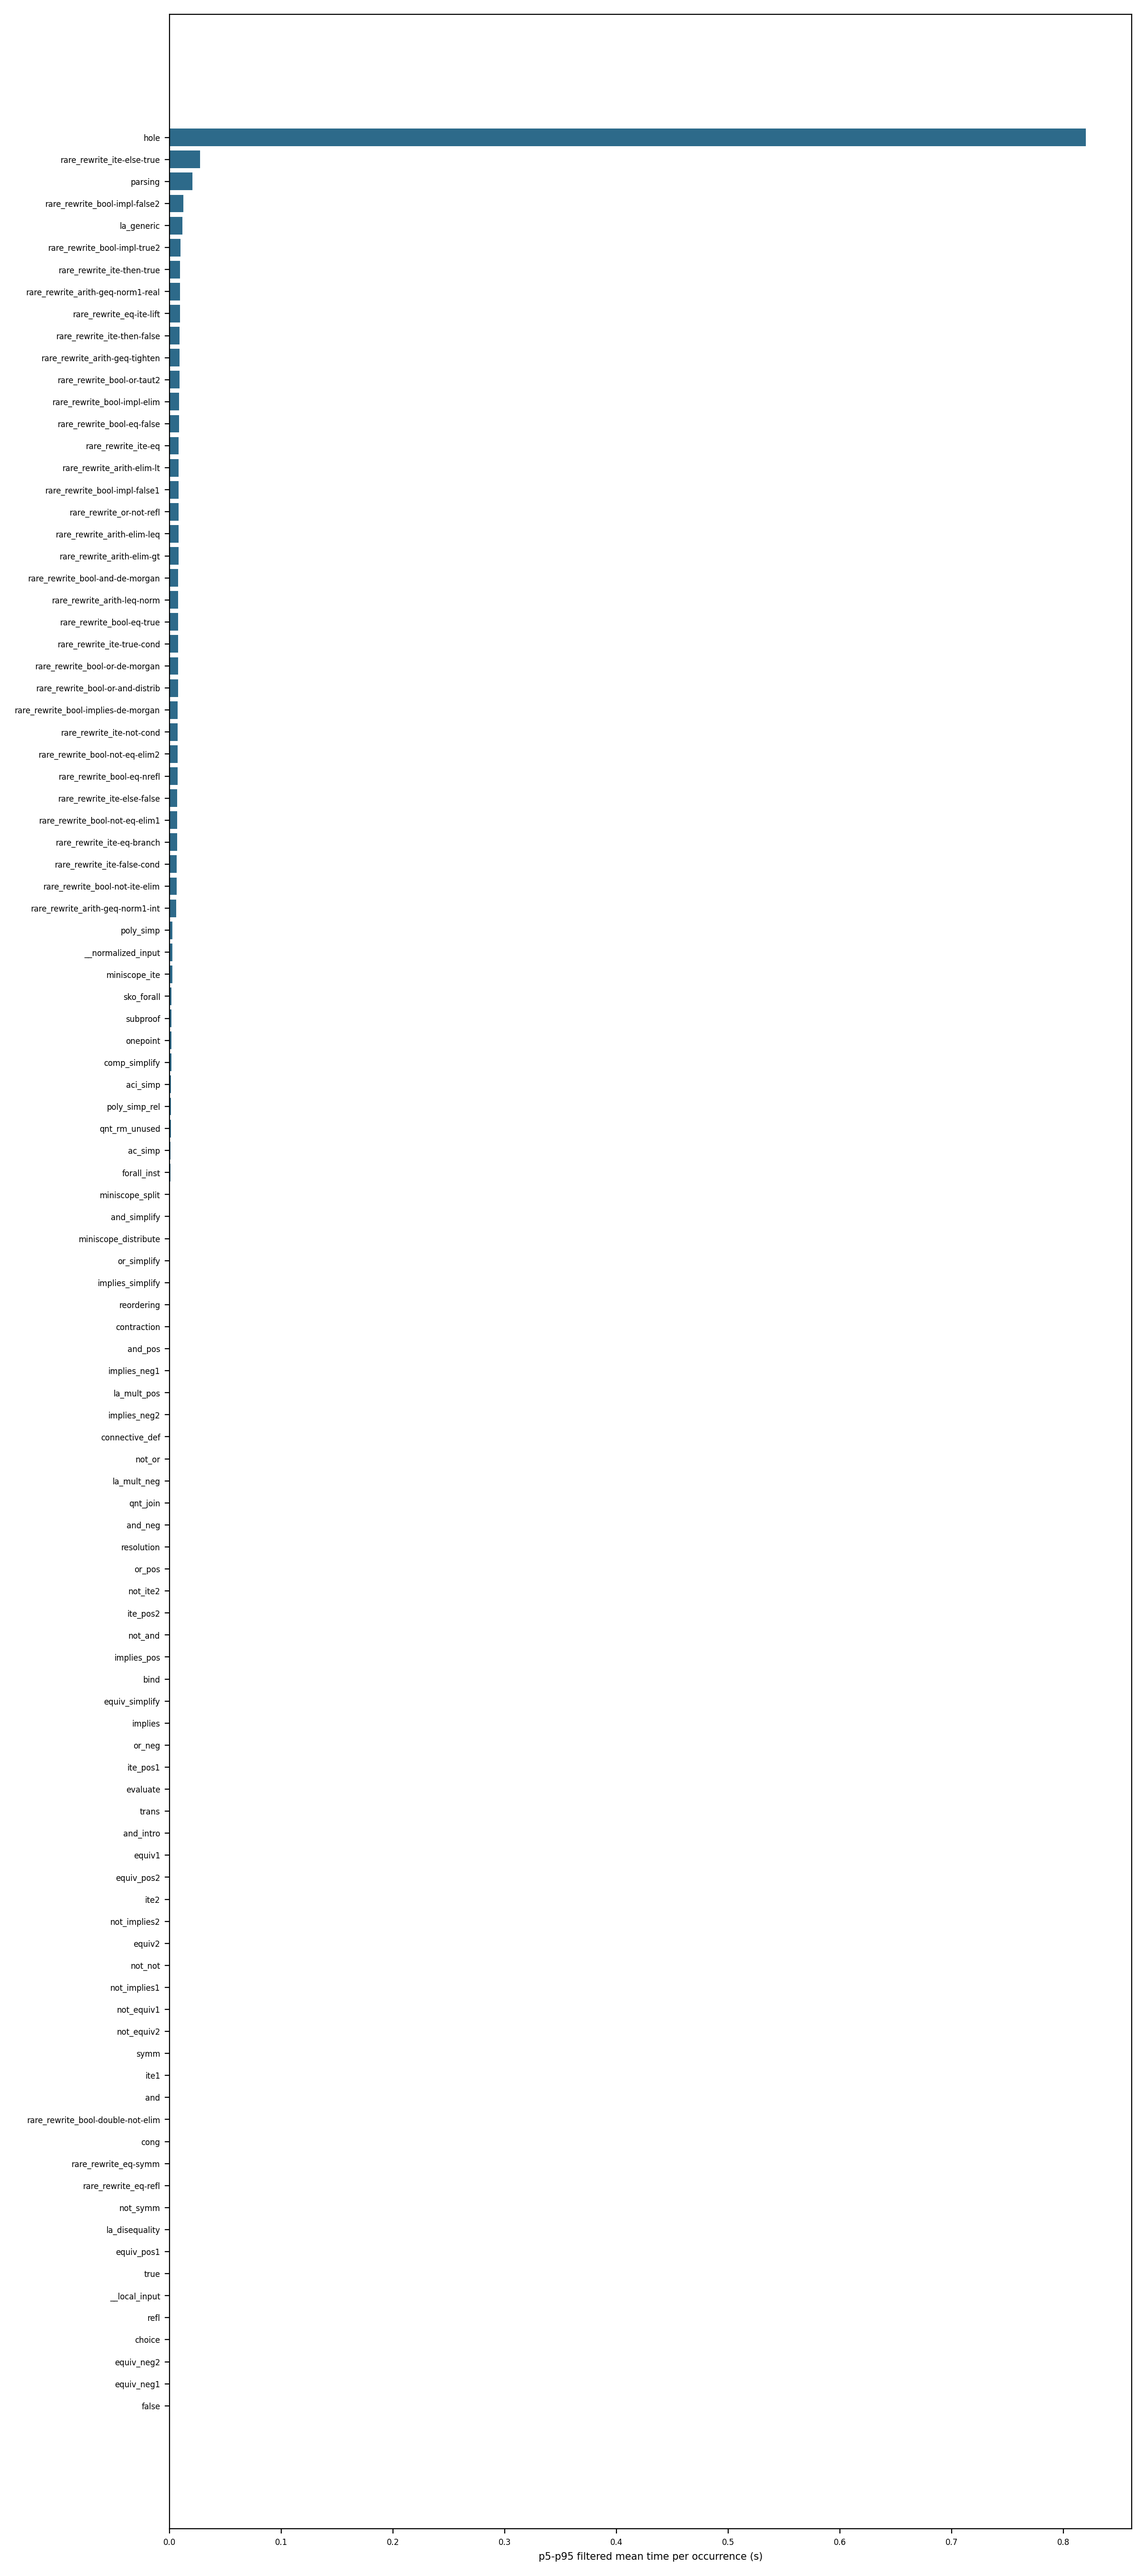
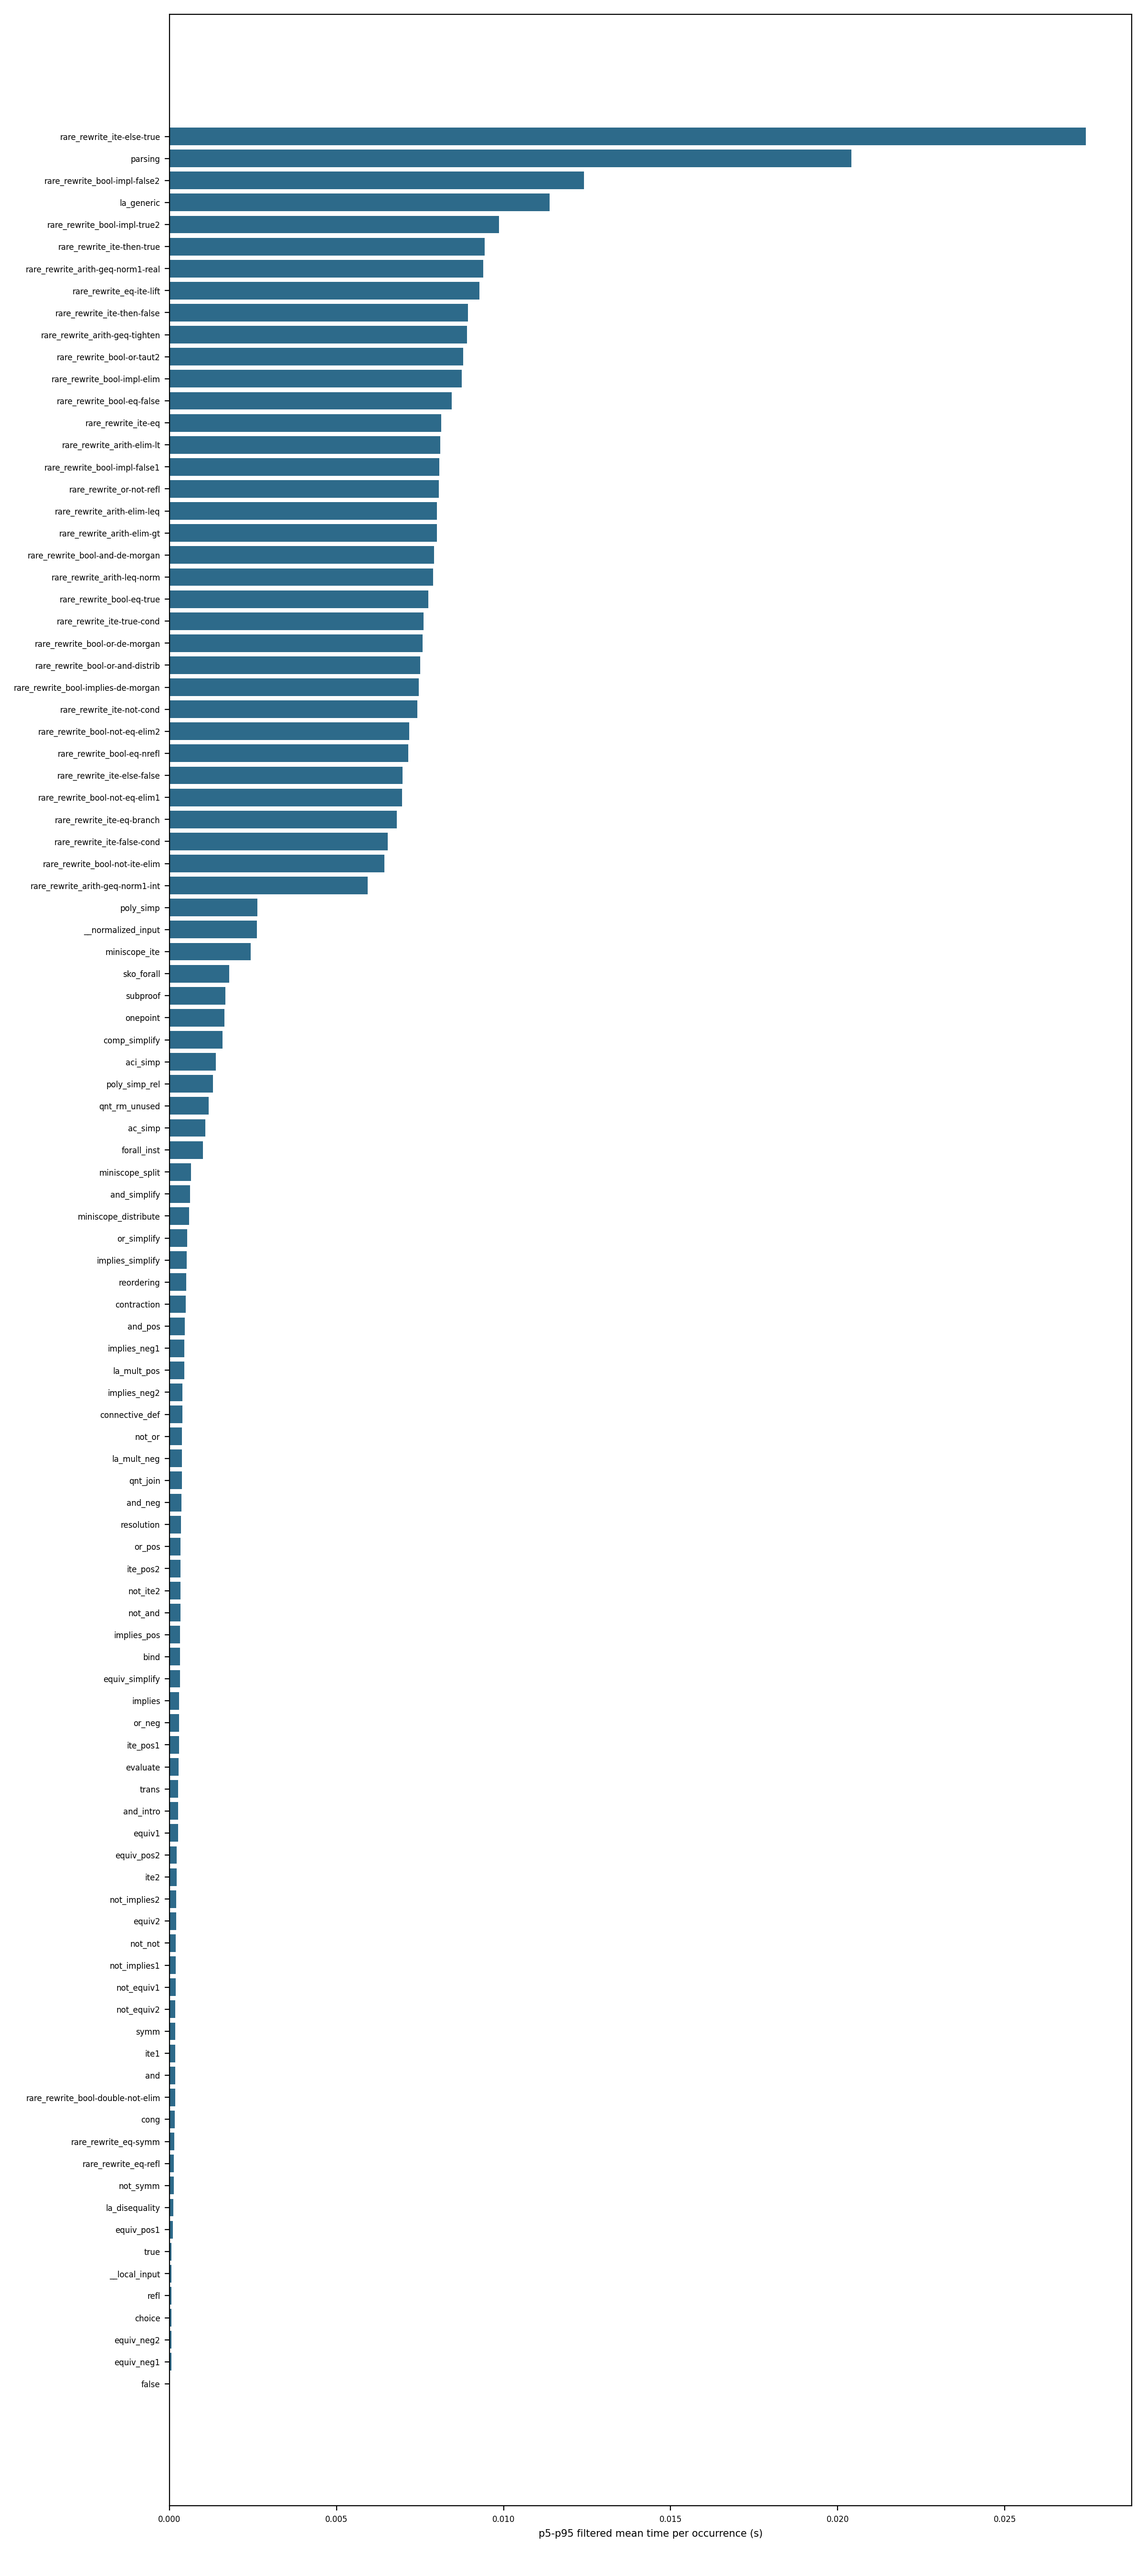
Add flags missing

Changed region(s): [[0.0312, 0.0312, 0.75, 0.9375]]

diff --git a/timing/scripts/script.py b/timing/scripts/script.py
@@ -31,8 +31,7 @@ from txt_to_by_rule_csv import aggregate_samples, discover_input_files, merge_sa
 
 
 DPI = 200
-DEFAULT_MAX_RULES = 25
-P05_P95_FILTER_LIMITS = (0.05, 0.95)
+DEFAULT_FILTER_LIMITS = (0.05, 0.95)
 
 
 def parse_args() -> argparse.Namespace:
@@ -47,8 +46,27 @@ def parse_args() -> argparse.Namespace:
     parser.add_argument(
         "--max-rules",
         type=int,
-        default=DEFAULT_MAX_RULES,
-        help="Maximum number of rules to include across each plot family.",
+        default=None,
+        help="Maximum number of rules to include across each plot family. Defaults to all rules.",
+    )
+    parser.add_argument(
+        "--min",
+        dest="min_quantile",
+        type=float,
+        default=DEFAULT_FILTER_LIMITS[0],
+        help="Lower percentile filter bound in [0, 1]. Defaults to 0.05.",
+    )
+    parser.add_argument(
+        "--max",
+        dest="max_quantile",
+        type=float,
+        default=DEFAULT_FILTER_LIMITS[1],
+        help="Upper percentile filter bound in [0, 1]. Defaults to 0.95.",
+    )
+    parser.add_argument(
+        "--exclude",
+        default="",
+        help="Comma-separated rule names to exclude from plots.",
     )
     return parser.parse_args()
 
@@ -83,8 +101,37 @@ def read_by_rule_csv(filename: Path) -> pandas.DataFrame:
     return df
 
 
-def select_ranked_rules(input_csv: Path, metric: str, max_rules: int) -> pandas.DataFrame:
+def parse_excluded_rules(exclude_arg: str) -> set[str]:
+    return {rule.strip() for rule in exclude_arg.split(",") if rule.strip()}
+
+
+def filter_label(value: float) -> str:
+    percentage = value * 100.0
+    if percentage.is_integer():
+        return f"p{int(percentage)}"
+    return f"p{str(round(percentage, 3)).rstrip('0').rstrip('.')}"
+
+
+def filter_token(value: float) -> str:
+    percentage = value * 100.0
+    if percentage.is_integer():
+        return f"p{int(percentage):02d}"
+    return f"p{str(round(percentage, 3)).rstrip('0').rstrip('.').replace('.', '_')}"
+
+
+def select_ranked_rules(
+    input_csv: Path,
+    metric: str,
+    max_rules: int | None,
+    excluded_rules: set[str],
+) -> pandas.DataFrame:
     by_rule = read_by_rule_csv(input_csv)
+    if excluded_rules:
+        by_rule = by_rule.loc[~by_rule["rule"].isin(excluded_rules)].copy()
+    if by_rule.empty:
+        raise SystemExit("error: no rules remain after applying plotting filters")
+    if max_rules is None:
+        return by_rule.sort_values(by=metric, ascending=False).reset_index(drop=True)
     return by_rule.nlargest(max_rules, metric).reset_index(drop=True)
 
 
@@ -96,15 +143,21 @@ def plot_style(rule_count: int) -> tuple[float, float, float]:
     return figure_height, label_fontsize, axis_fontsize
 
 
-def build_total_bar_plot(input_csv: Path, output_path: Path, max_rules: int) -> Path:
+def build_total_bar_plot(
+    input_csv: Path,
+    output_path: Path,
+    max_rules: int | None,
+    excluded_rules: set[str],
+    filter_bounds_label: str,
+) -> Path:
     plt = import_plotting()
-    by_rule = select_ranked_rules(input_csv, "total", max_rules)
+    by_rule = select_ranked_rules(input_csv, "total", max_rules, excluded_rules)
     by_rule = by_rule.sort_values(by="total")
     figure_height, label_fontsize, axis_fontsize = plot_style(len(by_rule))
 
     fig, ax = plt.subplots(figsize=(12, figure_height))
     ax.barh(by_rule["rule"], by_rule["total"], color="#555555")
-    ax.set_xlabel("p5-p95 filtered total time (s)", fontsize=axis_fontsize)
+    ax.set_xlabel(f"{filter_bounds_label} filtered total time (s)", fontsize=axis_fontsize)
     ax.tick_params(axis="x", labelsize=max(6.0, label_fontsize))
     ax.tick_params(axis="y", labelsize=label_fontsize)
     fig.tight_layout()
@@ -113,15 +166,24 @@ def build_total_bar_plot(input_csv: Path, output_path: Path, max_rules: int) -> 
     return output_path
 
 
-def build_mean_bar_plot(input_csv: Path, output_path: Path, max_rules: int) -> Path:
+def build_mean_bar_plot(
+    input_csv: Path,
+    output_path: Path,
+    max_rules: int | None,
+    excluded_rules: set[str],
+    filter_bounds_label: str,
+) -> Path:
     plt = import_plotting()
-    by_rule = select_ranked_rules(input_csv, "mean", max_rules)
+    by_rule = select_ranked_rules(input_csv, "mean", max_rules, excluded_rules)
     by_rule = by_rule.sort_values(by="mean")
     figure_height, label_fontsize, axis_fontsize = plot_style(len(by_rule))
 
     fig, ax = plt.subplots(figsize=(12, figure_height))
     ax.barh(by_rule["rule"], by_rule["mean"], color="#2d6a8a")
-    ax.set_xlabel("p5-p95 filtered mean time per occurrence (s)", fontsize=axis_fontsize)
+    ax.set_xlabel(
+        f"{filter_bounds_label} filtered mean time per occurrence (s)",
+        fontsize=axis_fontsize,
+    )
     ax.tick_params(axis="x", labelsize=max(6.0, label_fontsize))
     ax.tick_params(axis="y", labelsize=label_fontsize)
     fig.tight_layout()
@@ -130,9 +192,15 @@ def build_mean_bar_plot(input_csv: Path, output_path: Path, max_rules: int) -> P
     return output_path
 
 
-def build_box_plot(input_csv: Path, output_path: Path, max_rules: int) -> Path:
+def build_box_plot(
+    input_csv: Path,
+    output_path: Path,
+    max_rules: int | None,
+    excluded_rules: set[str],
+    filter_bounds_label: str,
+) -> Path:
     plt = import_plotting()
-    by_rule = select_ranked_rules(input_csv, "total", max_rules)
+    by_rule = select_ranked_rules(input_csv, "total", max_rules, excluded_rules)
     by_rule = by_rule.sort_values(by="total")
     figure_height, label_fontsize, axis_fontsize = plot_style(len(by_rule))
 
@@ -149,7 +217,7 @@ def build_box_plot(input_csv: Path, output_path: Path, max_rules: int) -> Path:
         for _, row in by_rule.iterrows()
     ]
     ax.bxp(boxplot, shownotches=False, showmeans=False, showfliers=False, vert=False)
-    ax.set_xlabel("p5-p95 filtered time (s)", fontsize=axis_fontsize)
+    ax.set_xlabel(f"{filter_bounds_label} filtered time (s)", fontsize=axis_fontsize)
     ax.tick_params(axis="x", labelsize=max(6.0, label_fontsize))
     ax.tick_params(axis="y", labelsize=label_fontsize)
     fig.tight_layout()
@@ -158,9 +226,14 @@ def build_box_plot(input_csv: Path, output_path: Path, max_rules: int) -> Path:
     return output_path
 
 
-def build_scatter_plot(input_csv: Path, output_path: Path, max_rules: int) -> Path:
+def build_scatter_plot(
+    input_csv: Path,
+    output_path: Path,
+    max_rules: int | None,
+    excluded_rules: set[str],
+) -> Path:
     plt = import_plotting()
-    by_rule = select_ranked_rules(input_csv, "mean", max_rules)
+    by_rule = select_ranked_rules(input_csv, "mean", max_rules, excluded_rules)
     figure_height, label_fontsize, axis_fontsize = plot_style(len(by_rule))
     annotation_fontsize = max(3.5, label_fontsize - 1.0)
 
@@ -191,7 +264,21 @@ def build_scatter_plot(input_csv: Path, output_path: Path, max_rules: int) -> Pa
     return output_path
 
 
-def run_pipeline(input_path: Path, output_dir: Path, max_rules: int) -> int:
+def run_pipeline(
+    input_path: Path,
+    output_dir: Path,
+    max_rules: int | None,
+    min_quantile: float,
+    max_quantile: float,
+    excluded_rules: set[str],
+) -> int:
+    if not 0.0 <= min_quantile <= 1.0:
+        raise SystemExit("error: --min must be between 0 and 1")
+    if not 0.0 <= max_quantile <= 1.0:
+        raise SystemExit("error: --max must be between 0 and 1")
+    if min_quantile > max_quantile:
+        raise SystemExit("error: --min must be less than or equal to --max")
+
     output_dir.mkdir(parents=True, exist_ok=True)
     mpl_config_dir = output_dir / ".matplotlib"
     mpl_config_dir.mkdir(parents=True, exist_ok=True)
@@ -203,7 +290,8 @@ def run_pipeline(input_path: Path, output_dir: Path, max_rules: int) -> int:
         raise SystemExit("error: no timing samples found in input")
 
     csv_path = output_dir / "by-rule.csv"
-    p05_p95_csv_path = output_dir / "by-rule-p05-p95.csv"
+    filter_bounds_label = f"{filter_label(min_quantile)}-{filter_label(max_quantile)}"
+    filtered_csv_path = output_dir / f"by-rule-{filter_token(min_quantile)}-{filter_token(max_quantile)}.csv"
     total_bar_path = output_dir / "by-rules-total-barplot.png"
     mean_bar_path = output_dir / "by-rules-mean-barplot.png"
     boxplot_path = output_dir / "by-rules-boxplot.png"
@@ -215,9 +303,9 @@ def run_pipeline(input_path: Path, output_dir: Path, max_rules: int) -> int:
     ]
 
     rows = aggregate_samples(samples)
-    p05_p95_rows = aggregate_samples(samples, trim_limits=P05_P95_FILTER_LIMITS)
+    filtered_rows = aggregate_samples(samples, trim_limits=(min_quantile, max_quantile))
     write_csv(rows, csv_path)
-    write_csv(p05_p95_rows, p05_p95_csv_path)
+    write_csv(filtered_rows, filtered_csv_path)
 
     for stale_dir in stale_paged_outputs:
         if stale_dir.exists():
@@ -225,18 +313,24 @@ def run_pipeline(input_path: Path, output_dir: Path, max_rules: int) -> int:
     stale_csv_paths = [
         output_dir / "by-rule-central95.csv",
         output_dir / "by-rule-upper95.csv",
+        output_dir / "by-rule-p05-p95.csv",
     ]
     for stale_csv_path in stale_csv_paths:
-        if stale_csv_path.exists():
+        if stale_csv_path != filtered_csv_path and stale_csv_path.exists():
             stale_csv_path.unlink()
+    for stale_filtered_csv_path in output_dir.glob("by-rule-p*-p*.csv"):
+        if stale_filtered_csv_path != filtered_csv_path and stale_filtered_csv_path.exists():
+            stale_filtered_csv_path.unlink()
 
-    build_total_bar_plot(p05_p95_csv_path, total_bar_path, max_rules)
-    build_mean_bar_plot(p05_p95_csv_path, mean_bar_path, max_rules)
-    build_box_plot(p05_p95_csv_path, boxplot_path, max_rules)
-    build_scatter_plot(csv_path, scatterplot_path, max_rules)
+    build_total_bar_plot(filtered_csv_path, total_bar_path, max_rules, excluded_rules, filter_bounds_label)
+    build_mean_bar_plot(filtered_csv_path, mean_bar_path, max_rules, excluded_rules, filter_bounds_label)
+    build_box_plot(filtered_csv_path, boxplot_path, max_rules, excluded_rules, filter_bounds_label)
+    build_scatter_plot(csv_path, scatterplot_path, max_rules, excluded_rules)
 
     print(f"wrote {len(rows)} rule rows from {len(used_files)} txt file(s) to {csv_path}")
-    print(f"wrote p5-p95 filtered rule rows to {p05_p95_csv_path}")
+    print(f"wrote {filter_bounds_label} filtered rule rows to {filtered_csv_path}")
+    if excluded_rules:
+        print(f"excluded {len(excluded_rules)} rule(s) from plots: {', '.join(sorted(excluded_rules))}")
     print(f"wrote total bar plot to {total_bar_path}")
     print(f"wrote mean bar plot to {mean_bar_path}")
     print(f"wrote box plot to {boxplot_path}")
@@ -246,7 +340,14 @@ def run_pipeline(input_path: Path, output_dir: Path, max_rules: int) -> int:
 
 def main() -> int:
     args = parse_args()
-    return run_pipeline(Path(args.input_path), Path(args.output_dir), args.max_rules)
+    return run_pipeline(
+        Path(args.input_path),
+        Path(args.output_dir),
+        args.max_rules,
+        args.min_quantile,
+        args.max_quantile,
+        parse_excluded_rules(args.exclude),
+    )
 
 
 if __name__ == "__main__":
